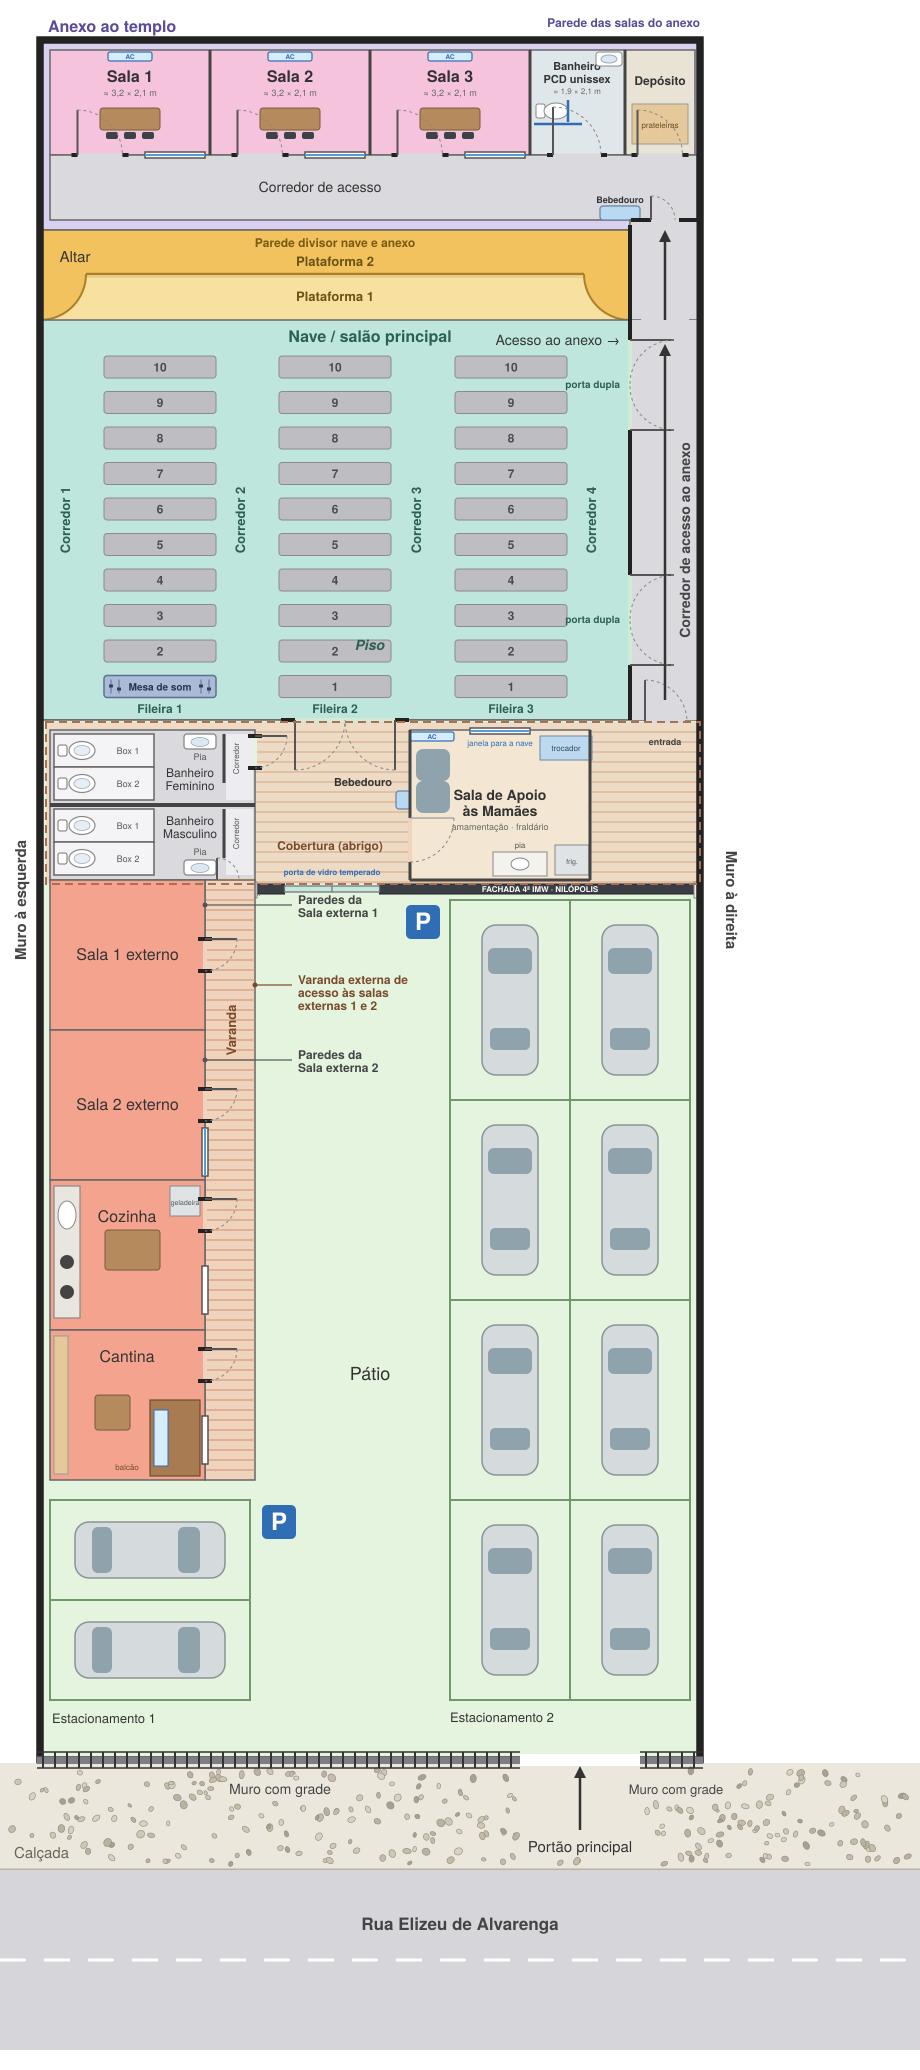
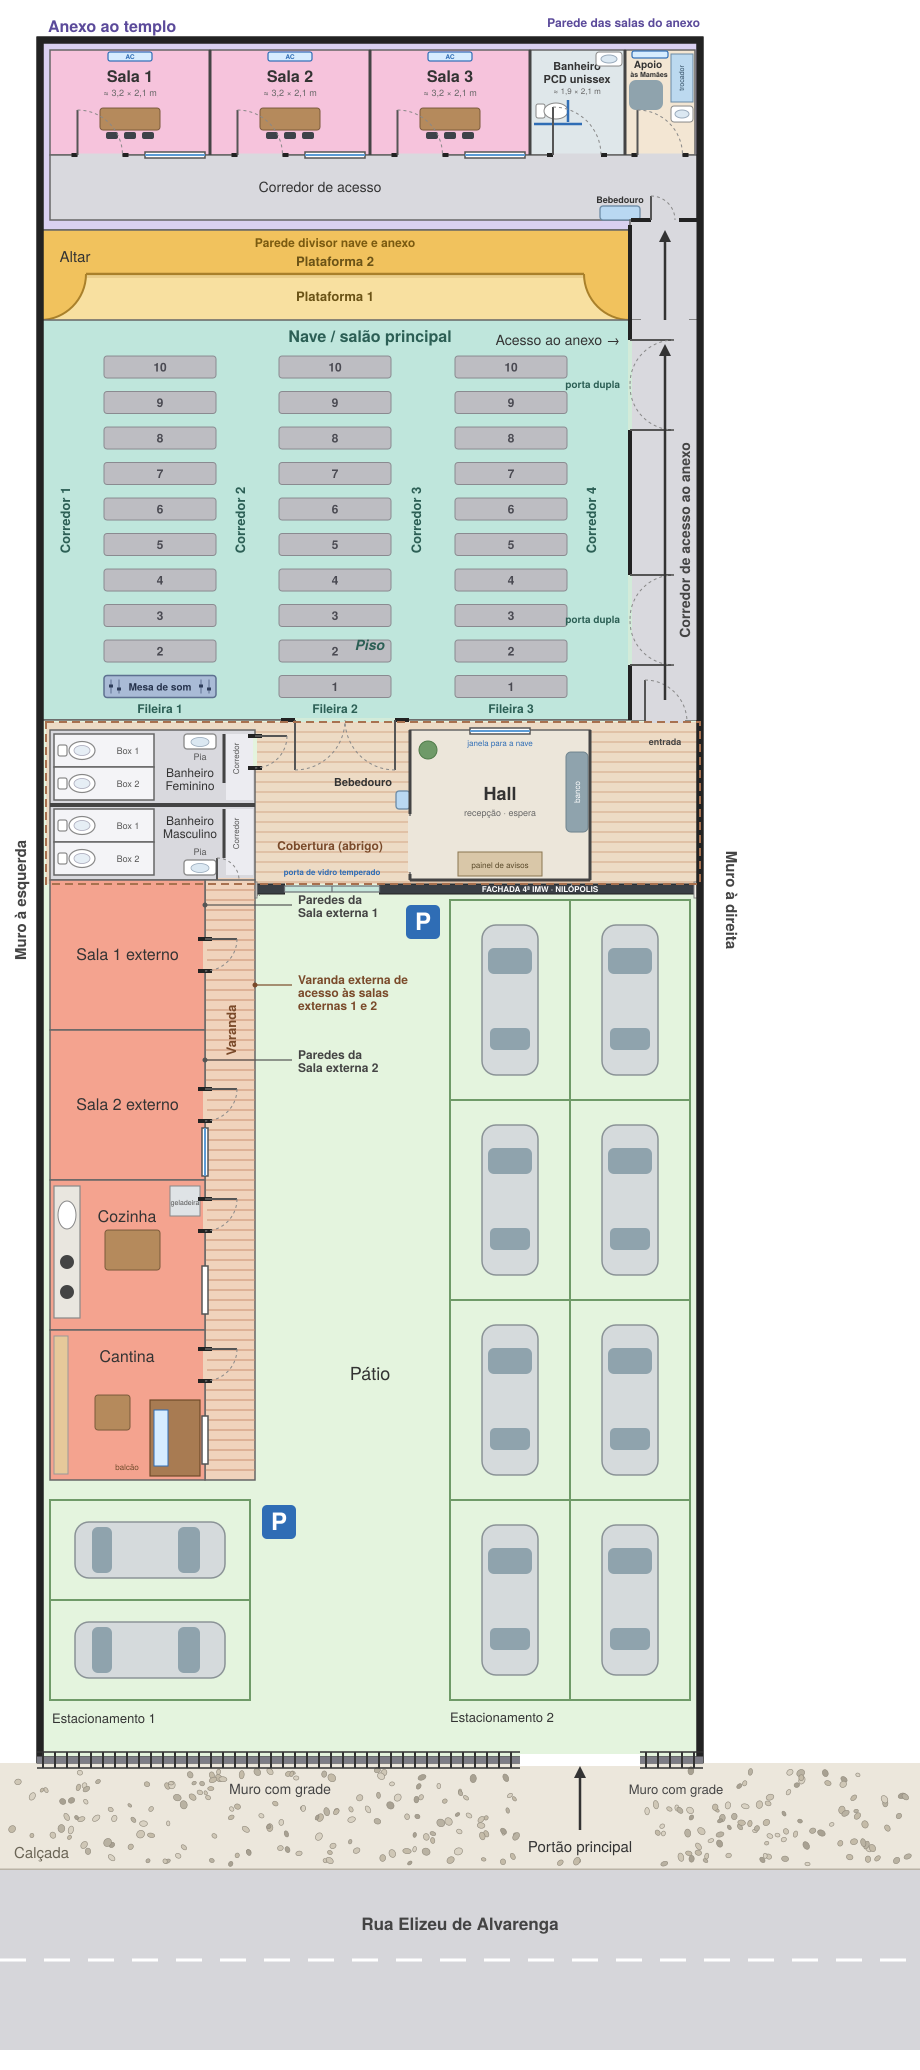
Projeto 2: Sala de Apoio no anexo (lugar do Depósito) e Hall no lugar do Apoio
Claude-Session: https://claude.ai/code/session_015gh4tS64wXyJ2ghbw66cFX

Changed region(s): [[0.4261, 0.3401, 0.6087, 0.4329], [0.6696, 0.0, 0.7609, 0.0928], [0.5783, 0.3401, 0.6391, 0.4019]]

diff --git a/projeto2/maquete.html b/projeto2/maquete.html
@@ -251,7 +251,7 @@
   rect(40, 40, 700, 230, 0, 0.06, C.anexo, { cast: false });                 // bloco do anexo
   [[50,210],[210,370],[370,530]].forEach(function(r){ rect(r[0], 50, r[1], 155, 0.06, 0.04, C.salaAnexo, { cast: false }); });   // PROJETO 2: 3 salas
   rect(530, 50, 625, 155, 0.06, 0.04, 0xdfe7ea, { cast: false });            // PROJETO 2: banheiro PCD unissex
-  rect(625, 50, 695, 155, 0.06, 0.04, 0xe9e3d6, { cast: false });            // PROJETO 2: depósito
+  rect(625, 50, 695, 155, 0.06, 0.04, 0xe8d9c0, { cast: false });            // PROJETO 2: Sala de Apoio às Mamães (piso amadeirado claro)
   rect(50, 155, 700, 220, 0.06, 0.04, C.corr, { cast: false });              // corredor do anexo
   rect(630, 220, 700, 320, 0.0, 0.1, C.corr, { cast: false });               // corredor de acesso ao anexo
   // nave: piso de cor clara (porcelanato bege claro, placas de 0,6 m)
@@ -405,12 +405,12 @@
   [520, 640].forEach(function(px){ box(0.4, BH, 0.4, C.trim, X(px), BH / 2, Z(1760)); });
 
   // ---------- Anexo (paredes das salas com altura padrão de 3 m) ----------
-  // PROJETO 2: anexo reorganizado (3 salas + banheiro PCD unissex + depósito) com corredor y155..220 e bebedouro
+  // PROJETO 2: anexo reorganizado (3 salas + banheiro PCD unissex + Sala de Apoio) com corredor y155..220 e bebedouro
   [210, 370, 530, 625].forEach(function(px){ vwall(px, 50, 155, BH); });
   vwall(695, 50, 155, BH);
   hwall(155, 50, 695, BH, [door(100), win(175), door(260), win(335), door(420), win(495), { a: 553, b: 601, lh: 2.1 }, door(660)]);
   doorLeaf(true, 225, 665, 0.86, 2.08, 0.2);                                // porta de madeira de acesso ao anexo
-  [100, 260, 420, 660].forEach(function(c){ doorLeaf(true, 155, c); });      // portas de madeira: Salas 1-3 e depósito
+  [100, 260, 420, 660].forEach(function(c){ doorLeaf(true, 155, c); });      // portas de madeira: Salas 1-3 e Sala de Apoio
   doorLeaf(true, 155, 577, 0.9, 2.08, 0.16);                                // porta do banheiro PCD
   [175, 335, 495].forEach(function(c){ winFrame(true, 155, c); });           // janelas das 3 salas
   (function(){
@@ -426,8 +426,12 @@
     box(0.04, 0.04, 0.8, 0xc9ced3, X(534), 0.85, Z(125)); box(0.04, 0.04, 0.8, 0xc9ced3, X(582), 0.85, Z(100)); box(0.8, 0.04, 0.04, 0xc9ced3, X(560), 0.85, Z(76));
     box(0.55, 0.85, 0.3, C.white, X(609), 0.425, Z(46)); box(0.45, 0.03, 0.2, 0xbcd5e8, X(609), 0.865, Z(46), null, { cast: false });
     box(0.6, 0.8, 0.02, 0, X(609), 1.55, Z(40) + 0.11 + 0.02, null, { material: new THREE.MeshStandardMaterial({ color: 0xdde9ef, roughness: 0.05, metalness: 0.8 }), cast: false });
-    // depósito: prateleiras
-    box(1.2, 1.8, 0.4, 0xe6c99a, X(660), 0.98, Z(46)); [0.5, 1.0, 1.5].forEach(function(hh){ box(1.25, 0.04, 0.42, 0xc9a87c, X(660), hh + 0.1, Z(46)); });
+    // Sala de Apoio às Mamães (x625..695, y50..155): poltrona de amamentação, trocador, lavatório, ar-condicionado
+    box(0.7, 0.45, 0.65, 0x8fa3ad, X(646), 0.3, Z(95)); box(0.14, 0.55, 0.65, 0x8fa3ad, X(632), 0.6, Z(95)); box(0.12, 0.18, 0.65, 0x7b8f99, X(660), 0.5, Z(95));
+    box(0.45, 0.9, 1.0, 0xf4f2ec, X(682), 0.45, Z(78)); box(0.45, 0.06, 1.0, 0xbcd9ef, X(682), 0.93, Z(78));
+    box(0.44, 0.85, 0.32, 0xf4f2ec, X(682), 0.425, Z(114)); var ps2 = new THREE.Mesh(new THREE.CylinderGeometry(0.13, 0.1, 0.06, 18), mat(0xffffff, { roughness: 0.25 })); ps2.position.set(X(682), 0.88, Z(114)); root.add(ps2);
+    acBox(X(650), 2.45, Z(40) + 0.11 + 0.1);
+    var rg2 = new THREE.Mesh(new THREE.CylinderGeometry(0.5, 0.5, 0.02, 32), mat(0xf0e4d2, { roughness: 1 })); rg2.position.set(X(650), 0.12, Z(100)); root.add(rg2);
     // bebedouro do anexo, na parede do corredor (lado do altar), perto do saguão
     box(0.8, 1.0, 0.36, 0xcfd8dc, X(620), 0.5, Z(225) - 0.09 - 0.18); box(0.7, 0.05, 0.3, 0x5b9bd5, X(620), 1.02, Z(225) - 0.09 - 0.18); box(0.05, 0.12, 0.05, 0x888, X(620), 1.1, Z(225) - 0.09 - 0.1);
   })();
@@ -585,7 +589,7 @@
 
   // ---------- Banheiros (box, vasos, pia, corredor) e Salas externas ----------
   rect(50, 730, 255, 880, 0.0, 0.1, C.bath, { cast: false });                // PROJETO 2: banheiros (trocados de lugar com a Sala de Apoio)
-  rect(410, 730, 590, 880, 0.0, 0.1, 0xe8d9c0, { cast: false });                // PROJETO 2: Sala de Apoio às Mamães (piso amadeirado claro)
+  rect(410, 730, 590, 880, 0.0, 0.1, 0xe3ddd0, { cast: false });                // PROJETO 2: Hall (porcelanato claro)
   rect(50, 880, 205, 1030, 0.0, 0.1, C.salaExt, { cast: false });
   rect(50, 1030, 205, 1180, 0.0, 0.1, C.salaExt, { cast: false });
   rect(205, 880, 255, 1480, 0.0, 0.08, C.varanda, { cast: false });         // piso da varanda (PROJETO 2: prolongada até a Cantina)
@@ -603,9 +607,9 @@
   [955, 1090].forEach(function(c){ doorLeaf(false, 205, c); });
   
   winFrame(false, 205, 1146);
-  // ---- PROJETO 2: Sala de Apoio às Mamães (x410..590, y730..880), entrada pelo sul; vizinha dos banheiros ----
-  hwall(880, 410, 590, BH, [], 'HALF'); vwall(410, 730, 880, BH, [door(840)], 'HALF'); vwall(590, 730, 880, BH, [], 'HALF'); hwall(730, 410, 590, BH, [win(500)], 'HALF');
-  doorLeaf(false, 410, 840, 0.86, 2.08, 0.16); winFrame(true, 730, 500);
+  // ---- PROJETO 2: HALL (x410..590, y730..880), no lugar da antiga Sala de Apoio; acesso aberto pelo saguão ----
+  hwall(880, 410, 590, BH, [], 'HALF'); vwall(410, 730, 880, BH, [{ a: 814, b: 874, lh: 2.3 }], 'HALF'); vwall(590, 730, 880, BH, [], 'HALF'); hwall(730, 410, 590, BH, [win(500)], 'HALF');
+  winFrame(true, 730, 500);
   // ---- PROJETO 2: banheiros iguais aos da IGREJA ATUAL (Feminino y730..805 / Masculino y805..880) ----
   hwall(805, 50, 255, BH, [], 'HALF');
   doorLeaf(false, 255, 752.25, 0.86, 2.08, 0.18); doorLeaf(true, 880, 235.5, 0.72, 2.08, 0.14);   // Feminino: porta pelo saguão; Masculino: porta própria pela varanda (acesso independente)
@@ -623,16 +627,13 @@
     box(0.5, 0.03, 0.2, 0xbcd5e8, X(200), 0.865, Z(sy + 7.5), null, { cast: false });
     vwall(224, y0 + 4, y0 + 53, 2.4, [], 'HALF', 0.08);
   });
-  // ---- Sala de Apoio: poltronas de amamentação, trocador, pia, geladeira, ar-condicionado ----
+  // ---- Hall: banco estofado, painel de avisos, vaso, tapete, luminária ----
   (function(){
-    [765, 797].forEach(function(py){
-      box(0.7, 0.45, 0.65, 0x8fa3ad, X(432), 0.3, Z(py)); box(0.14, 0.55, 0.65, 0x8fa3ad, X(420), 0.6, Z(py)); box(0.12, 0.18, 0.65, 0x7b8f99, X(446), 0.5, Z(py));
-    });
-    box(1.05, 0.9, 0.5, 0xf4f2ec, X(566), 0.45, Z(748)); box(1.05, 0.06, 0.5, 0xbcd9ef, X(566), 0.93, Z(748));
-    box(1.0, 0.9, 0.5, 0xf4f2ec, X(520), 0.45, Z(866)); var ps = new THREE.Mesh(new THREE.CylinderGeometry(0.17, 0.13, 0.08, 18), mat(0xffffff, { roughness: 0.25 })); ps.position.set(X(520), 0.92, Z(866)); root.add(ps);
-    box(0.7, 1.7, 0.65, 0xdfe3e6, X(572), 0.9, Z(862));
-    box(0.95, 0.28, 0.2, 0xf4f4f2, X(430), 2.45, Z(730) + 0.08 + 0.1);
-    var rg = new THREE.Mesh(new THREE.CylinderGeometry(0.95, 0.95, 0.02, 32), mat(0xf0e4d2, { roughness: 1 })); rg.position.set(X(505), 0.12, Z(800)); root.add(rg);
+    box(0.45, 0.45, 1.6, 0x8fa3ad, X(577), 0.28, Z(792)); box(0.12, 0.55, 1.6, 0x8fa3ad, X(587), 0.6, Z(792));
+    box(1.7, 1.0, 0.04, 0xd9c7a8, X(500), 1.5, Z(880) - 0.1 - 0.02); box(1.78, 0.05, 0.05, 0x7a5a3a, X(500), 2.02, Z(880) - 0.1 - 0.02); box(1.78, 0.05, 0.05, 0x7a5a3a, X(500), 0.98, Z(880) - 0.1 - 0.02);
+    var pot = new THREE.Mesh(new THREE.CylinderGeometry(0.2, 0.15, 0.4, 18), mat(0xdcd8cf, { roughness: 0.6 })); pot.position.set(X(428), 0.2, Z(750)); root.add(pot);
+    var pl = new THREE.Mesh(new THREE.SphereGeometry(0.34, 16, 12), mat(0x5d8f56, { roughness: 0.9 })); pl.position.set(X(428), 0.75, Z(750)); root.add(pl);
+    var rg = new THREE.Mesh(new THREE.CylinderGeometry(0.85, 0.85, 0.02, 40), mat(0xcfc3ae, { roughness: 1 })); rg.position.set(X(500), 0.12, Z(805)); root.add(rg);
   })();
   // ---- bebedouro: parede externa dos banheiros (abrigo coberto) ----
   box(0.3, 1.0, 0.35, 0xcfd8dc, X(410) - 0.09 - 0.15, 0.55, Z(800)); box(0.26, 0.05, 0.3, 0x5b9bd5, X(410) - 0.09 - 0.15, 1.07, Z(800)); box(0.05, 0.12, 0.05, 0x888, X(410) - 0.09 - 0.26, 1.15, Z(800));
@@ -844,8 +845,8 @@
     split(X(262), 2.4, Z(720) + 0.122 + 0.1, 0);              // fachada, à esquerda da porta
     split(X(205) + 0.08 + 0.1, 2.35, Z(1000), Math.PI / 2);   // Sala 1 externa, voltado à varanda
     // condensadora ao lado da porta
-    var cd = box(0.85, 0.65, 0.3, 0xc5c8cb, X(448), 0.05 + 0.325, Z(720) + 0.122 + 0.16);
-    var fan = new THREE.Mesh(new THREE.CylinderGeometry(0.24, 0.24, 0.02, 20), mat(0x2b2e32)); fan.rotation.x = Math.PI / 2; fan.position.set(X(448), 0.4, Z(720) + 0.122 + 0.32); root.add(fan);
+    var cd = box(0.8, 0.65, 0.3, 0xc5c8cb, X(277), 0.05 + 0.325, Z(720) + 0.122 + 0.16);
+    var fan = new THREE.Mesh(new THREE.CylinderGeometry(0.24, 0.24, 0.02, 20), mat(0x2b2e32)); fan.rotation.x = Math.PI / 2; fan.position.set(X(277), 0.4, Z(720) + 0.122 + 0.32); root.add(fan);
     // capacho e soleira na porta de vidro
     box(1.9, 0.02, 0.7, 0x35383c, X(345), 0.06, Z(720) + 0.5, null, { cast: false });
     box(1.9, 0.04, 0.16, 0xa6a8aa, X(345), 0.07, Z(720) + 0.2, null, { cast: false });
@@ -895,7 +896,7 @@
     isopor(50, 880, 205, 1030); isopor(50, 1030, 205, 1180); isopor(50, 1180, 205, 1330); isopor(50, 1330, 205, 1480);
     lampRound(127, 955); lampRound(127, 1105); lampRound(127, 1255); lampRound(127, 1405);
     // banheiros (feminino e masculino)
-    isopor(50, 730, 255, 880); isopor(410, 730, 590, 880);   // PROJETO 2: Sala de Apoio e banheiros novos
+    isopor(50, 730, 255, 880); isopor(410, 730, 590, 880);   // PROJETO 2: banheiros e Hall
     lampRound(110, 805); lampRound(200, 805); [455, 545].forEach(function(px){ lampRound(px, 768); lampRound(px, 845); });
     // salas do anexo e cozinha: laje emboçada branca lisa + luzes
     var lajeMat = new THREE.MeshStandardMaterial({ color: 0xffffff, roughness: 1, emissive: 0x8c8c88 });
@@ -931,13 +932,13 @@
     labelGroup.add(sp);
   }
   label('Anexo ao templo', 370, 100, 6.4, 4.0);
-  label('Sala 1', 130, 100, 4.0, 1.7); label('Sala 2', 290, 100, 4.0, 1.7); label('Sala 3', 450, 100, 4.0, 1.7); label('Banheiro PCD', 577, 100, 4.0, 2.0); label('Depósito', 660, 100, 4.0, 1.7); label('Bebedouro (anexo)', 620, 190, 4.0, 1.9);
+  label('Sala 1', 130, 100, 4.0, 1.7); label('Sala 2', 290, 100, 4.0, 1.7); label('Sala 3', 450, 100, 4.0, 1.7); label('Banheiro PCD', 577, 100, 4.0, 2.0); label('Apoio às Mamães', 660, 100, 4.0, 1.9); label('Bebedouro (anexo)', 620, 190, 4.0, 1.9);
   label('Altar', 160, 250, 2.6, 1.5); label('Plataforma 2', 335, 252, 2.3, 2.6); label('Plataforma 1', 335, 297, 1.6, 2.6);
   label('Bateria', 560, 255, 3.1, 1.5); label('Teclado', 110, 258, 3.0, 1.5); label('Guitarra', 262, 255, 3.0, 1.5); label('Baixo', 292, 255, 3.4, 1.3); label('Microfones', 375, 262, 3.0, 2.0);
   label('Piso da nave', 370, 560, 1.4, 2.6);
   label('Mesa de som', 160, 687, 1.7, 2.4);
   label('Acesso ao anexo', 665, 270, 6.2, 3.2); label('Corredor de acesso ao anexo', 665, 520, 3.4, 3.4);
-  label('Sala de Apoio às Mamães', 500, 805, 3.9, 3.6); label('Fachada 4ª IMW', 500, 925, 3.6, 3.0); label('Banheiro Feminino', 120, 767, 3.6, 3.0); label('Banheiro Masculino', 120, 842, 3.6, 3.0);
+  label('Hall', 500, 805, 3.0, 1.8); label('Fachada 4ª IMW', 500, 925, 3.6, 3.0); label('Banheiro Feminino', 120, 767, 3.6, 3.0); label('Banheiro Masculino', 120, 842, 3.6, 3.0);
   label('Sala 1 externo', 127, 955, 3.7, 2.6); label('Sala 2 externo', 127, 1105, 3.7, 2.6);
   label('Varanda', 230, 1130, 3.4, 1.6);
   label('Cozinha', 127, 1255, 3.1, 1.9); label('Cantina', 127, 1405, 3.1, 1.9);
@@ -962,7 +963,7 @@
     { id: 'corredor', name: 'Corredor (anexo)', pos: [5.9, 1.65, -4.4], tgt: [5.9, 1.5, -13.4], roof: false, labels: false, fp: true },
     { id: 'naveal',  name: 'Nave de cima',    pos: [1.5, 15, -2], tgt: [1.5, 0, -8.5], roof: false, labels: true },
     { id: 'cantina', name: 'Cozinha e Cantina', pos: [-3.6, 15, 11.2], tgt: [-3.6, 0, 6.2], roof: false, labels: true },
-    { id: 'apoio',   name: 'Apoio e banheiros', pos: [-1.0, 17, 4.5], tgt: [-1.0, 0, -1.8], roof: false, labels: true },
+    { id: 'apoio',   name: 'Hall e banheiros', pos: [-1.0, 17, 4.5], tgt: [-1.0, 0, -1.8], roof: false, labels: true },
     { id: 'anexosalas', name: 'Salas do anexo', pos: [0.6, 12, -8.6], tgt: [0.6, 0, -15.2], roof: false, labels: true },
     { id: 'fachada', name: 'Fachada', pos: [1.8, 3.6, 12], tgt: [0.4, 1.9, -0.3], roof: true, labels: false },
     { id: 'altar',   name: 'Altar',           pos: [-2.5, 3.4, -4.2], tgt: [0, 0.8, -12.6], roof: false, labels: false },
@@ -976,9 +977,9 @@
     { id: 'vidro', name: 'Entrada de vidro (por dentro)', g: 'Templo', pos: [-0.76, 1.65, -2.6], tgt: [-0.76, 1.5, -0.22], roof: true, labels: false, fp: true },
     { id: 'altarfp', name: 'Do altar para a nave', g: 'Templo', pos: [2.6, 2.1, -12.0], tgt: [2.6, 1.4, -6.8], roof: true, labels: false, fp: true },
     { id: 'corrnave', name: 'Corredor da nave', g: 'Templo', pos: [-2.48, 1.65, -4.0], tgt: [-2.48, 1.4, -12.0], roof: true, labels: false, fp: true },
-    { id: 'bfem', name: 'Banheiro Feminino', g: 'Banheiros e apoio', pos: [-2.7, 1.65, -2.16], tgt: [-5.8, 1.2, -2.5], roof: true, labels: false, fp: true },
-    { id: 'bmasc', name: 'Banheiro Masculino', g: 'Banheiros e apoio', pos: [-2.5, 1.65, -0.64], tgt: [-5.6, 1.2, -1.3], roof: true, labels: false, fp: true },
-    { id: 'apoiofp', name: 'Sala de Apoio às Mamães', g: 'Banheiros e apoio', pos: [4.0, 1.65, -0.7], tgt: [1.0, 1.0, -2.5], roof: true, labels: false, fp: true },
+    { id: 'bfem', name: 'Banheiro Feminino', g: 'Banheiros e hall', pos: [-2.7, 1.65, -2.16], tgt: [-5.8, 1.2, -2.5], roof: true, labels: false, fp: true },
+    { id: 'bmasc', name: 'Banheiro Masculino', g: 'Banheiros e hall', pos: [-2.5, 1.65, -0.64], tgt: [-5.6, 1.2, -1.3], roof: true, labels: false, fp: true },
+    { id: 'hallfp', name: 'Hall', g: 'Banheiros e hall', pos: [4.1, 1.65, -0.7], tgt: [1.4, 1.2, -2.6], roof: true, labels: false, fp: true },
     { id: 'sala1ext', name: 'Sala 1 externo', g: 'Salas externas', pos: [-3.5, 1.65, 2.3], tgt: [-6.0, 1.1, 0.3], roof: true, labels: false, fp: true },
     { id: 'sala2ext', name: 'Sala 2 externo', g: 'Salas externas', pos: [-6.0, 1.65, 4.0], tgt: [-3.3, 1.2, 4.92], roof: true, labels: false, fp: true },
     { id: 'varanda', name: 'Varanda', g: 'Salas externas', pos: [-2.8, 1.65, 0.0], tgt: [-2.8, 1.5, 11.0], roof: true, labels: false, fp: true },
@@ -987,6 +988,7 @@
     { id: 'anexocorr', name: 'Corredor do anexo (leste-oeste)', g: 'Anexo', pos: [-5.8, 1.65, -14.24], tgt: [6.4, 1.5, -14.24], roof: true, labels: false, fp: true },
     { id: 'sala1a', name: 'Sala 1 (anexo)', g: 'Anexo', pos: [-3.5, 1.65, -15.04], tgt: [-6.2, 1.3, -16.5], roof: true, labels: false, fp: true },
     { id: 'sala2a', name: 'Sala 2 (anexo)', g: 'Anexo', pos: [-0.3, 1.65, -15.04], tgt: [-2.9, 1.3, -16.5], roof: true, labels: false, fp: true },
+    { id: 'apoiofp', name: 'Sala de Apoio às Mamães (anexo)', g: 'Anexo', pos: [5.85, 1.65, -15.06], tgt: [5.8, 1.15, -17.0], roof: true, labels: false, fp: true },
     { id: 'sala3a', name: 'Sala 3 (anexo)', g: 'Anexo', pos: [2.9, 1.65, -15.04], tgt: [0.3, 1.3, -16.5], roof: true, labels: false, fp: true },
     { id: 'pcd', name: 'Banheiro PCD (anexo)', g: 'Anexo', pos: [4.6, 1.65, -15.04], tgt: [3.5, 1.2, -16.8], roof: true, labels: false, fp: true }
   ];

diff --git a/index.html b/index.html
@@ -97,7 +97,7 @@
   <div class="panel" id="projeto2">
     <section>
       <h2>Projeto 2 — Maquete 3D</h2>
-      <p class="sub">Baseado na igreja atual: Fileira 4 eliminada e corredor de acesso ao anexo com 2 portas para a nave; fileiras e corredores reorganizados; Cozinha e Cantina na parte externa; banheiros iguais aos da igreja atual, Sala de Apoio às Mamães (lado leste) e bebedouro ao lado da Sala de Apoio; anexo com 3 salas, banheiro PCD, depósito e bebedouro. Fachada moderna com logo e nome da igreja, do muro até a parede, com porta de vidro temperado; banheiros com acessos independentes. Dica: use as vistas <b>Fachada</b>, <b>Apoio e banheiros</b>, <b>Salas do anexo</b>, <b>Cozinha e Cantina</b> e <b>Corredor (anexo)</b>.</p>
+      <p class="sub">Baseado na igreja atual: Fileira 4 eliminada e corredor de acesso ao anexo com 2 portas para a nave; fileiras e corredores reorganizados; Cozinha e Cantina na parte externa; banheiros iguais aos da igreja atual, Hall de entrada (ao lado do saguão) e bebedouro ao lado do Hall; anexo com 3 salas, banheiro PCD, Sala de Apoio às Mamães (menor) e bebedouro. Fachada moderna com logo e nome da igreja, do muro até a parede, com porta de vidro temperado; banheiros com acessos independentes. Dica: use as vistas <b>Fachada</b>, <b>Hall e banheiros</b>, <b>Salas do anexo</b>, <b>Cozinha e Cantina</b> e <b>Corredor (anexo)</b>.</p>
       <iframe class="frame" data-src="projeto2/maquete.html" title="Maquete 3D do Projeto 2" allowfullscreen></iframe>
       <div class="btns"><a class="btn" href="projeto2/maquete.html" target="_blank" rel="noopener">Abrir em tela cheia</a></div>
     </section>
